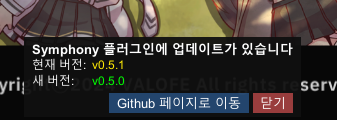
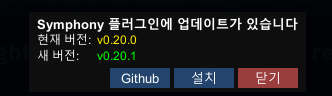
[doc] Update `doc/update.png` and README

diff --git a/README.ko.md b/README.ko.md
@@ -18,29 +18,29 @@
 ### GracefulFPS
 게임의 FPS 관련 기능을 제공합니다.
 
-게임 FPS 수치 표시, 전체 및 전투 FPS 제한 기능을 제공합니다.
-FPS 는 기본, 고정, 수직동기화 옵션을 제공합니다.
+- 게임 FPS 수치 표시, 전체 및 전투 FPS 제한 기능을 제공합니다.\
+  FPS는 `기본`, `고정`, `수직동기화` 옵션을 제공합니다.
 
 ### SimpleTweaks
 게임의 각종 간단한 기능 개선 모음입니다.
 
-로비 UI 숨기기 단축키 지정 기능을 제공합니다.
-게임 창의 종횡비 고정 방지 및 창 크기 조정 후 위치 초기화의 방지, 전체 화면 전환 키 재지정 기능을 제공합니다.
-백그라운드에서 음소거 동작 변경, 볼륨 조절 기능을 제공합니다.
-스토리 뷰어 스킵 키 재지정, 일부 버그 패치 기능을 제공합니다.
-빠른 로고 화면, 즉시 로그인 가능, 자동 로그인 기능을 제공합니다.
+- 로비 UI 숨기기 단축키 지정 기능을 제공합니다.
+- 게임 창의 종횡비 고정 방지 및 창 크기 조정 후 위치 초기화의 방지, 전체 화면 전환 키 재지정 기능을 제공합니다.
+- 백그라운드에서 음소거 동작 변경, 볼륨 조절 기능을 제공합니다.
+- 스토리 뷰어 스킵 키 재지정, 일부 버그 패치 기능을 제공합니다.
+- 빠른 로고 화면, 즉시 로그인 가능, 자동 로그인 기능을 제공합니다.
 
-전체화면/창모드 전환 키 기본 값은 `F11` 입니다.
+전체화면/창모드 전환 키의 기본 값은 `F11` 입니다.
 
 ### SimpleUI
 일부 UI를 사용하기 편하게 변경합니다.
 
-자율 전투가 진행중일 때, 전투 지역을 누르면 자율 전투 화면이 아니라 지역 화면이 나오도록 하는 기능을 제공합니다.
-각종 전투원 목록, 장비 목록, 소모품 목록의 표시 크기를 줄일 수 있습니다. (한 화면에 더 많은 항목을 볼 수 있습니다.)
-그리고 소모품 목록을 정렬할 수 있습니다.
-일부 검색 입력창에서 Enter키로 바로 검색할 수 있도록 합니다.
-마우스 휠을 사용한 스크롤을 가속할 수 있습니다.
-`전투원 소비 자원 표시 기본으로 끄기` 기능을 제공합니다.
+- 자율 전투가 진행중일 때, 전투 지역을 누르면 자율 전투 화면이 아니라 지역 화면이 나오도록 하는 기능을 제공합니다.
+-각종 전투원 목록, 장비 목록, 소모품 목록의 표시 크기를 줄일 수 있습니다. (한 화면에 더 많은 항목을 볼 수 있습니다.)
+- 그리고 소모품 목록을 정렬할 수 있습니다.
+- 일부 검색 입력창에서 Enter키로 바로 검색할 수 있도록 합니다.
+- 마우스 휠을 사용한 스크롤을 가속할 수 있습니다.
+- `전투원 소비 자원 표시 기본으로 끄기` 기능을 제공합니다.
 
 ### BattleHotkey
 전투 내의 `스킬1`, `스킬2`, `이동`, `대기`, `적 선택`, `적 타일 선택`, `(적 또는 타일 선택 후) 승인`, `행동 개시` 버튼에 대한 키보드 단축키를 지정합니다.
@@ -49,12 +49,12 @@ FPS 는 기본, 고정, 수직동기화 옵션을 제공합니다.
 적 및 타일의 번호는 키패드의 배치와 동일합니다. (`1번` 적이 좌하단에 위치)
 
 ### Automation
-자동화(매크로) 기능입니다.
-사용 시 운영 주체에 의해 이용 제한에 이를 수 있습니다.
+<font color=crimson>__자동화(매크로)__</font> 기능입니다.\
+사용 시 운영 주체에 의해 이용 제한에 이를 수 있습니다.\
 신중하게 사용해 주세요.
 
-기지의 완료된 설비의 일괄 수령 및 일괄 재시작 기능을 제공합니다.
-완료된 자율 전투의 재시작 기능을 제공합니다. (분해 설정은 PC에서 마지막으로 수행한 자율 전투 설정을 사용합니다.)
+- 기지의 완료된 설비의 일괄 수령 및 일괄 재시작 기능을 제공합니다.
+- 완료된 자율 전투의 재시작 기능을 제공합니다. (분해 설정은 PC에서 마지막으로 수행한 자율 전투 설정을 사용합니다.)
 
 
 ## 업데이트
@@ -62,7 +62,9 @@ FPS 는 기본, 고정, 수직동기화 옵션을 제공합니다.
 
 ![Update Screen](doc/update.png)
 
-`[Github 페이지로 이동]` 버튼을 누르면 이 리포지터리의 Releases 페이지로 이동됩니다.
+`[설치]` 버튼을 누르면 최신 버전의 플러그인을 자동으로 다운로드 및 설치하며, 설치가 끝난 후 게임을 재시작합니다.
+
+`[Github]` 버튼을 누르면 이 리포지터리의 Releases 페이지로 이동됩니다.
 
 ## 책임 및 경고
 이 모드는 비공식적으로 제작되었으며, 사용으로 인해 발생하는 모든 문제와 책임은 전적으로 사용자 본인에게 있습니다. 모드 사용 전, 중요한 데이터는 반드시 백업하시기 바랍니다. 개발자는 이 모드의 사용으로 인한 어떠한 손실이나 손해에 대해서도 책임지지 않습니다.

diff --git a/README.md b/README.md
@@ -18,29 +18,29 @@ The following is a description of each feature within the plugin.
 ### GracefulFPS
 A collection of FPS related features for the game.
 
-Displays in-game FPS and offers separate limit settings for global and battle scene.
-You can set the FPS limit to Off (Default), Fixed, or VSync.
+- Displays in-game FPS and offers separate limit settings for global and battle scene.\
+  You can set the FPS limit to `Off(Use vanilla)`, `Fixed`, or `VSync`.
 
 ### SimpleTweaks
 A collection of various simple quality-of-life improvements for the game.
 
-Provides a feature to assign a hotkey for hiding the lobby UI.
-Provides features to prevent the game window's aspect ratio from being locked, prevent the window position from resetting after resizing, and allow reassigning the fullscreen toggle key.
-Provides features to change the mute behavior in the background and to control the volume.
-Provides a feature to reassign the story viewer skip key, and includes several bug patches.
-Provides a fast logo screen, immediate login-able, and an automatic login feature.
+- Provides a feature to assign a hotkey for hiding the lobby UI.
+- Provides features to prevent the game window's aspect ratio from being locked, prevent the window position from resetting after resizing, and allow reassigning the fullscreen toggle key.
+- Provides features to change the mute behavior in the background and to control the volume.
+- Provides a feature to reassign the story viewer skip key, and includes several bug patches.
+- Provides a fast logo screen, immediate login-able, and an automatic login feature.
 
 The default key for toggling fullscreen/windowed mode is `F11`.
 
 ### SimpleUI
 This modifies parts of the UI to make them easier to use.
 
-Provides a feature that, when an Auto-Battle is in progress, tapping the Battle map will bring up the Map screen instead of the Auto-Battle screen.
-Provides the ability to reduce the display size of combatant, equipment, and consumable lists. (Allows more items to be seen on one screen.)
-Provides a sorting function for the consumable list.
-Provides instant search with the Enter key in some search input fields.
-Provides accelerated scrolling via the mouse wheel.
-Provides the `Set Character's resource cost display default to Off` feature.
+- Provides a feature that, when an Auto-Battle is in progress, tapping the Battle map will bring up the Map screen instead of the Auto-Battle screen.
+- Provides the ability to reduce the display size of combatant, equipment, and consumable lists. (Allows more items to be seen on one screen.)
+- Provides a sorting function for the consumable list.
+- Provides instant search with the Enter key in some search input fields.
+- Provides accelerated scrolling via the mouse wheel.
+- Provides the `Set Character's resource cost display default to Off` feature.
 
 ### BattleHotkey
 Assigns keyboard shortcuts for the `Skill 1`, `Skill 2`, `Move`, `Standby`, `Select Enemy`, `Select Enemy Tile`, `Confirm (after selecting an enemy or tile)`, and `Start Action` buttons in battle.
@@ -49,19 +49,21 @@ Assigns keyboard shortcuts for the `Skill 1`, `Skill 2`, `Move`, `Standby`, `Sel
 The numbering for enemies and tiles corresponds to the numpad layout (Enemy `1` is located at the bottom left).
 
 ### Automation
-This is an Automation (macro) feature.
-Please be aware that its use may lead to restrictions by the game operator.
+This is an <font color=crimson>__Automation(macro)__</font> feature.\
+Please be aware that its use may lead to restrictions by the game operator.\
 Please use with caution.
 
-Provides a Get-All and Restart-All function for completed Facilities in the Base.
-Provides a Restart function for completed Auto-Battles. (The Disassembling settings will use the settings from the last Auto-Battle run on PC.)
+- Provides a Get-All and Restart-All function for completed Facilities in the Base.
+- Provides a Restart function for completed Auto-Battles. (The Disassembling settings will use the settings from the last Auto-Battle run on PC.)
 
 ## Updates
 If the plugin requires an update, the following message will be displayed when the game starts.
 
 ![Update Screen](doc/update.png)
 
-Clicking the `[Github 페이지로 이동]` button will automatically take you to the Releases page of this repository.
+Clicking the `[설치]`(Install) button will download and install the latest version plugin automatically, and restart the game after complete install.
+
+Clicking the `[Github]` button will automatically take you to the Releases page of this repository.
 
 ## Disclaimer
 This is an unofficial mod. By using this mod, you agree that you are solely responsible for any issues or damages that may arise. Always back up your important data before use. The developer assumes no liability for any loss or damage caused by the use of this mod.
